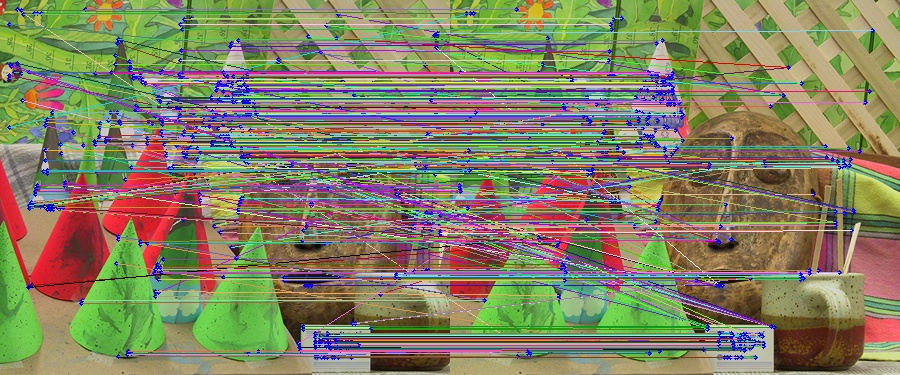
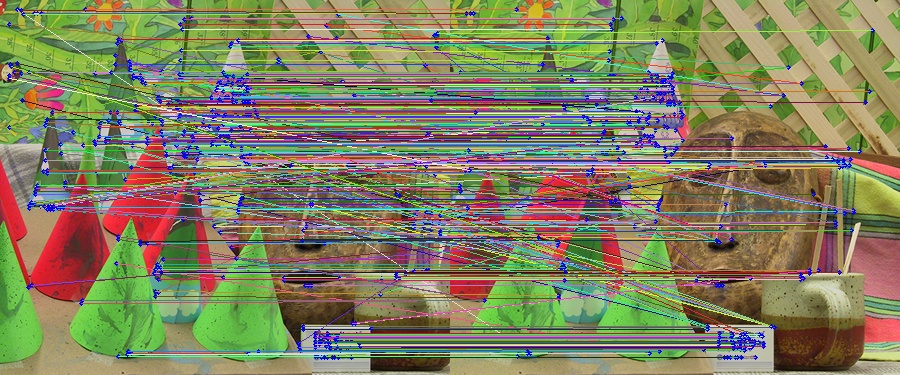
Added epipolar line visualization

diff --git a/stereo.py b/stereo.py
@@ -262,6 +262,35 @@ def display_correspondences(img1, img2, correspondences, inliers=None):
         cv2.imwrite("output_correspondences.jpg", images)
 
 
+def display_epipolar_lines(img1, img2, fundamental_matrix, correspondences, num_points=50):
+    frame1 = img1.copy()
+    frame2 = img2.copy()
+    points1_homogenous = np.append(correspondences[0], np.ones((correspondences[0].shape[0], 1)), axis=1)[:num_points]
+    points2_homogenous = np.append(correspondences[1], np.ones((correspondences[1].shape[0], 1)), axis=1)[:num_points]
+        
+    # left image
+    lines = fundamental_matrix @ points1_homogenous.T
+    for l in lines.T:
+        # calculate points on line at x=0 and x=frame.shape[1]
+        # line is defined by l[0]*x + l[1]*y + l[2] = 0
+        p1 = (0, int(-l[2]/l[1]))
+        p2 = (frame1.shape[1], int(-(l[0]*frame1.shape[1]+l[2])/l[1]))
+        frame1 = cv2.line(frame1, p1, p2, (255, 0, 0))
+    for p in points1_homogenous:
+        cv2.circle(frame1, (int(p[0]), int(p[1])), 2, (0, 0, 255), -1)
+
+    # right image
+    lines = fundamental_matrix.T @ points2_homogenous.T
+    for l in lines.T:
+        p1 = (0, int(-l[2]/l[1]))
+        p2 = (frame2.shape[1], int(-(l[0]*frame2.shape[1]+l[2])/l[1]))
+        frame2 = cv2.line(frame2, p1, p2, (255, 0, 0))
+    for p in points2_homogenous:
+        cv2.circle(frame2, (int(p[0]), int(p[1])), 2, (0, 0, 255), -1)
+        
+    cv2.imshow("Epipolar Lines", np.hstack([frame1, frame2]))
+    cv2.imwrite("output_epipolar_lines.jpg", np.hstack([frame1, frame2]))
+
 #######
 # Main
 #######
@@ -291,6 +320,7 @@ def main():
     fundmental_matrix, best_set_corresp = fundamental_ransac(correspondences)
     print("Fundamental Matrix: \n", fundmental_matrix)
     display_correspondences(img1, img2, correspondences, best_set_corresp)
+    display_epipolar_lines(img1, img2, fundmental_matrix, correspondences)
     
     # v. disparity map
     

diff --git a/README.md b/README.md
@@ -29,4 +29,7 @@ python3 stereo.py <left-image> <right-image>
 ![Correspondences](./output_correspondences.jpg)
 ![Inliers](./output_inliers.jpg)
 
+## Epipolar Lines
+![Epipolar Lines](./output_epipolar_lines.jpg)
+
 
